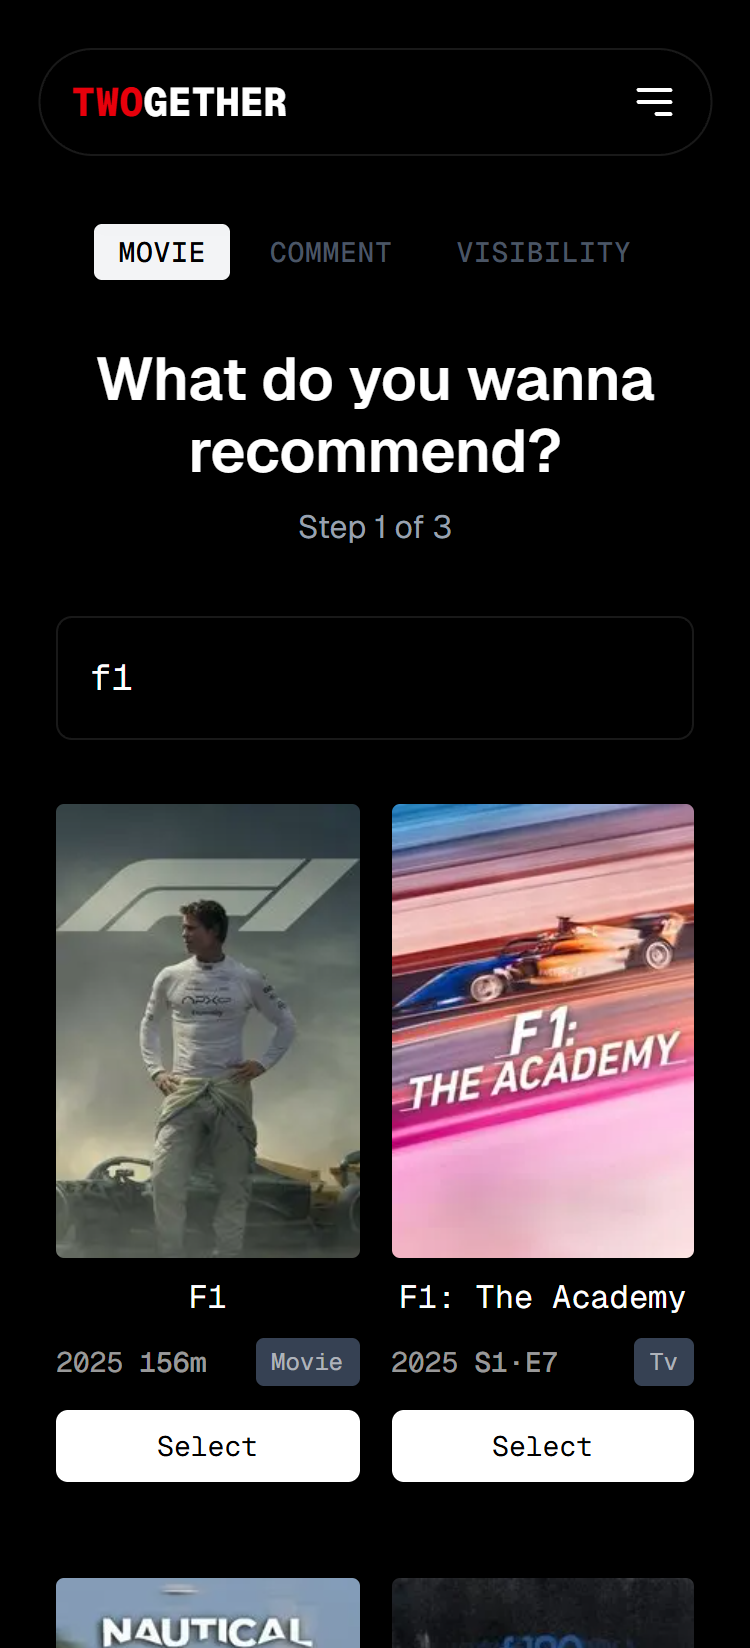
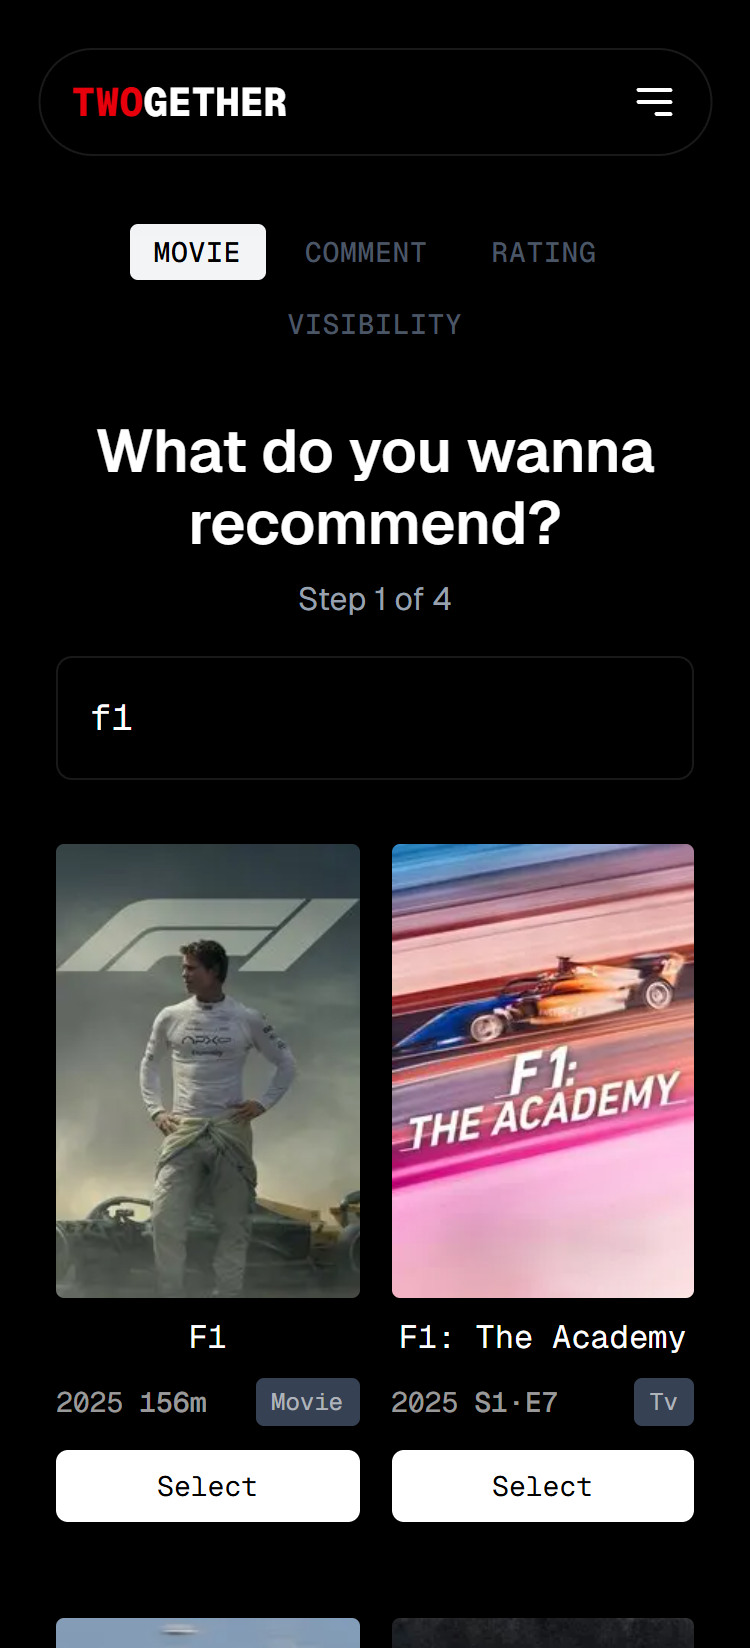
Refactor code structure for improved readability and maintainability

diff --git a/components/HeartRating.tsx b/components/HeartRating.tsx
@@ -1,0 +1,62 @@
+"use client";
+import { useState } from "react";
+import { IoMdHeart, IoMdHeartEmpty, IoMdHeartHalf } from "react-icons/io";
+
+type Props = {
+  value: number;
+  onChange: (val: number) => void;
+};
+
+export const HeartRating = ({ value, onChange }: Props) => {
+  const [hoverValue, setHoverValue] = useState<number | null>(null);
+
+  const handleClick = (i: number, isHalf: boolean) => {
+    const newValue = isHalf ? i - 0.5 : i;
+    onChange(newValue);
+  };
+
+  const getIcon = (i: number) => {
+    const current = hoverValue !== null ? hoverValue : value;
+    const isFull = current >= i;
+    const isHalf = current >= i - 0.5 && current < i;
+
+    const baseClass =
+      "text-red-500 w-10 h-10 transition-transform duration-200 ease-out";
+
+    const hoverClass =
+      hoverValue !== null && current >= i
+        ? "scale-110"
+        : value >= i
+        ? "animate-pulse"
+        : "";
+
+    if (isFull) return <IoMdHeart className={`${baseClass} ${hoverClass}`} />;
+    if (isHalf)
+      return <IoMdHeartHalf className={`${baseClass} ${hoverClass}`} />;
+    return <IoMdHeartEmpty className={`${baseClass}`} />;
+  };
+
+  return (
+    <div className="flex" onMouseLeave={() => setHoverValue(null)}>
+      {[1, 2, 3, 4, 5].map((i) => (
+        <div key={i} className="relative w-10 h-10 group">
+          <button
+            type="button"
+            className="absolute cursor-pointer left-0 w-1/2 h-full z-10"
+            onMouseEnter={() => setHoverValue(i - 0.5)}
+            onClick={() => handleClick(i, true)}
+          />
+          <button
+            type="button"
+            className="absolute cursor-pointer right-0 w-1/2 h-full z-10"
+            onMouseEnter={() => setHoverValue(i)}
+            onClick={() => handleClick(i, false)}
+          />
+          <div className="group-hover:scale-110 transition-transform duration-150 ease-out">
+            {getIcon(i)}
+          </div>
+        </div>
+      ))}
+    </div>
+  );
+};

diff --git a/components/FilmCard.tsx b/components/FilmCard.tsx
@@ -19,6 +19,7 @@ import { FaLock } from "react-icons/fa";
 import { getSlugFromTitle } from "@/utils/ai-recommend/getSlugFromTitle";
 import { useRouter } from "next/navigation";
 import { useTMDBWatch } from "@/stores/useTMDBWatch";
+import { VisualHeartRating } from "./VisualHeartRating";
 
 export default function FilmCard({
   item,
@@ -252,13 +253,30 @@ export default function FilmCard({
                 </p>
               )}
 
+              {item.rating && (
+                <div className="mt-2">
+                  <VisualHeartRating value={item.rating} />
+                </div>
+              )}
+
               {item.recommended_by.username && (
-                <div className="text-sm text-gray-400 italic mt-1">
-                  Recommended by{" "}
+                <div className="text-sm text-gray-400 italic mt-1 flex items-center gap-2">
+                  <span>Recommended by</span>
                   <Link
                     href={`/profile/${item.recommended_by.username}/${item.recommended_by.id}`}
-                    className="text-white font-medium hover:underline"
+                    className="text-white font-medium hover:underline flex items-center gap-2"
                   >
+                    {item.recommended_by.avatar_url && (
+                      <div className="w-6 h-6 rounded-full overflow-hidden">
+                        <Image
+                          src={item.recommended_by.avatar_url}
+                          alt={item.recommended_by.username}
+                          width={24}
+                          height={24}
+                          className="rounded-full object-cover"
+                        />
+                      </div>
+                    )}
                     {item.generated_by_ai
                       ? "AI Assistant"
                       : item.recommended_by.username}

diff --git a/components/RecommendModal.tsx b/components/RecommendModal.tsx
@@ -5,6 +5,7 @@ import { motion, AnimatePresence } from "framer-motion";
 import { FaLock, FaGlobe } from "react-icons/fa";
 import { toast } from "sonner";
 import { Loader2, Sparkles } from "lucide-react";
+import { HeartRating } from "./HeartRating";
 
 export default function RecommendModal({
   open,
@@ -16,11 +17,13 @@ export default function RecommendModal({
   onClose: () => void;
   onSubmit: (data: {
     comment: string;
+    rating: number;
     visibility: "public" | "private";
   }) => void;
   loading?: boolean;
 }) {
   const [comment, setComment] = useState("");
+  const [rating, setRating] = useState(0);
   const [visibility, setVisibility] = useState<"public" | "private">("public");
 
   const handleSubmit = () => {
@@ -29,7 +32,7 @@ export default function RecommendModal({
       return;
     }
 
-    onSubmit({ comment, visibility });
+    onSubmit({ comment, rating, visibility });
   };
 
   return (
@@ -97,9 +100,16 @@ export default function RecommendModal({
                   </button>
                 </div>
               </div>
+
+              <div>
+                <label className="text-sm mb-1 block text-white/70">
+                  Rating
+                </label>
+                <HeartRating value={rating} onChange={setRating} />
+              </div>
             </div>
 
-            <div className="flex justify-end gap-3 mt-10">
+            <div className="flex justify-end gap-3 mt-8">
               <button
                 onClick={onClose}
                 disabled={loading}

diff --git a/app/(user)/recommend/page.tsx b/app/(user)/recommend/page.tsx
@@ -11,10 +11,12 @@ import { useRouter } from "next/navigation";
 import { useDebounce } from "use-debounce";
 import Image from "next/image";
 import { Sparkles } from "lucide-react";
+import { HeartRating } from "@/components/HeartRating";
 
 const steps = [
   { key: "movie", prompt: "What do you wanna recommend?" },
   { key: "comment", prompt: "What’s the vibe? Why do you love it?" },
+  { key: "rating", prompt: "How much did it steal your heart?" },
   { key: "visibility", prompt: "Who can see this recommendation?" },
 ] as const;
 
@@ -25,6 +27,7 @@ const defaultForm: RecommendationForm = {
   type: "movie",
   stream_url: [],
   comment: "",
+  rating: 0,
   visibility: "public",
 };
 
@@ -120,7 +123,15 @@ const RecommendPage = () => {
             />
           </div>
         );
-
+      case "rating":
+        return (
+          <div className="flex flex-col items-center ">
+            <HeartRating
+              value={form.rating || 0}
+              onChange={(v) => setForm({ ...form, rating: v })}
+            />
+          </div>
+        );
       case "visibility":
         return (
           <SingleSelectCards
@@ -170,7 +181,7 @@ const RecommendPage = () => {
         {steps[step].prompt}
       </h1>
 
-      <p className="text-gray-400 mb-8 text-center font-[family-name:var(--font-geist-sans)]">
+      <p className="text-gray-400 mb-4 text-center font-[family-name:var(--font-geist-sans)]">
         Step {step + 1} of {steps.length}
       </p>
 

diff --git a/data/demo.tsx b/data/demo.tsx
@@ -38,6 +38,25 @@ export const data = [
     ),
   },
   {
+    title: "Rate the Movie or Show",
+    content: (
+      <div>
+        <p className="mb-6 text-sm md:text-base lg:text-lg leading-relaxed font-[family-name:var(--font-geist-mono)] text-gray-300 max-w-2xl">
+          Add a 1 to 5 heart rating — even half hearts like 4.5 — to show how
+          strongly you recommend it. Your rating adds a fun, personal touch to
+          your recommendations.
+        </p>
+        <Image
+          src="/demo/step3.png"
+          width={500}
+          height={500}
+          alt="Rating step"
+          className="object-cover w-full h-auto border border-white/10 rounded-md shadow-sm"
+        />
+      </div>
+    ),
+  },
+  {
     title: "Choose Visibility Settings",
     content: (
       <div>
@@ -46,7 +65,7 @@ export const data = [
           friends, or make it public.
         </p>
         <Image
-          src="/demo/step3.png"
+          src="/demo/step4.png"
           width={500}
           height={500}
           alt="Visibility step"

diff --git a/components/VisualHeartRating.tsx b/components/VisualHeartRating.tsx
@@ -1,0 +1,24 @@
+import { IoMdHeart, IoMdHeartHalf, IoMdHeartEmpty } from "react-icons/io";
+
+type Props = {
+  value: number;
+  size?: string; // e.g. "w-6 h-6"
+};
+
+export const VisualHeartRating = ({ value, size = "w-4 h-4" }: Props) => {
+  const getIcon = (i: number) => {
+    const isFull = value >= i;
+    const isHalf = value >= i - 0.5 && value < i;
+    const baseClass = `text-red-500 ${size}`;
+
+    if (isFull) return <IoMdHeart key={i} className={baseClass} />;
+    if (isHalf) return <IoMdHeartHalf key={i} className={baseClass} />;
+    return <IoMdHeartEmpty key={i} className={baseClass} />;
+  };
+
+  return (
+    <div className="flex items-center">
+      {[1, 2, 3, 4, 5].map((i) => getIcon(i))}
+    </div>
+  );
+};

diff --git a/app/(root)/tmdb/watch/[id]/[slug]/TMDBWatchPage.tsx b/app/(root)/tmdb/watch/[id]/[slug]/TMDBWatchPage.tsx
@@ -50,6 +50,7 @@ export default function TMDBWatchPage({
 
   const handleSubmit = async (formData: {
     comment: string;
+    rating: number;
     visibility: "public" | "private";
   }) => {
     setLoading(true);
@@ -66,6 +67,7 @@ export default function TMDBWatchPage({
     const { error } = await createRecommendation({
       ...safeData,
       comment: formData.comment,
+      rating: formData.rating,
       visibility: formData.visibility,
     });
 

diff --git a/app/(user)/watch/[id]/[movieTitle]/WatchInfo.tsx b/app/(user)/watch/[id]/[movieTitle]/WatchInfo.tsx
@@ -34,6 +34,7 @@ export default function WatchInfo({
 
   const handleSubmit = async (formData: {
     comment: string;
+    rating: number;
     visibility: "public" | "private";
   }) => {
     setLoading(true);
@@ -49,6 +50,7 @@ export default function WatchInfo({
     const { error } = await createRecommendation({
       ...aiRecommendData,
       comment: formData.comment,
+      rating: formData.rating,
       visibility: formData.visibility,
     });
 

diff --git a/utils/adaptCollectionToRecommendation.ts b/utils/adaptCollectionToRecommendation.ts
@@ -28,6 +28,7 @@ export function adaptCollectionMoviesToRecommendations(
       episode_titles_per_season: undefined,
       visibility: "public",
       comment: "",
+      rating: 0,
       is_tmdb_recommendation: true,
       created_at: new Date().toISOString(),
       recommended_by: {

diff --git a/utils/adaptAIGeneratedToRecommendation.ts b/utils/adaptAIGeneratedToRecommendation.ts
@@ -36,6 +36,7 @@ export function adaptAIGeneratedToRecommendation(
     comment: "AI Recommended",
     visibility: "public",
     created_at: new Date().toISOString(),
+    rating: 0,
     recommended_by: {
       id: "ai-generated",
       username: "AI Recommendation",

diff --git a/types/formTypes.ts b/types/formTypes.ts
@@ -40,6 +40,7 @@ export type RecommendationForm = {
   type: "movie" | "tv";
   stream_url: string[];
   comment: string;
+  rating: number;
   visibility: "public" | "private";
   episodeTitlesPerSeason?: Record<number, EpisodeTitle[]>;
 };

diff --git a/utils/adaptTMDBToRecommendation.ts b/utils/adaptTMDBToRecommendation.ts
@@ -35,6 +35,7 @@ export function adaptTMDBToRecommendation(
     visibility: "public",
     comment: "",
     is_tmdb_recommendation: true,
+    rating: 0,
     created_at: new Date().toISOString(),
     recommended_by: {
       id: "tmdb",
